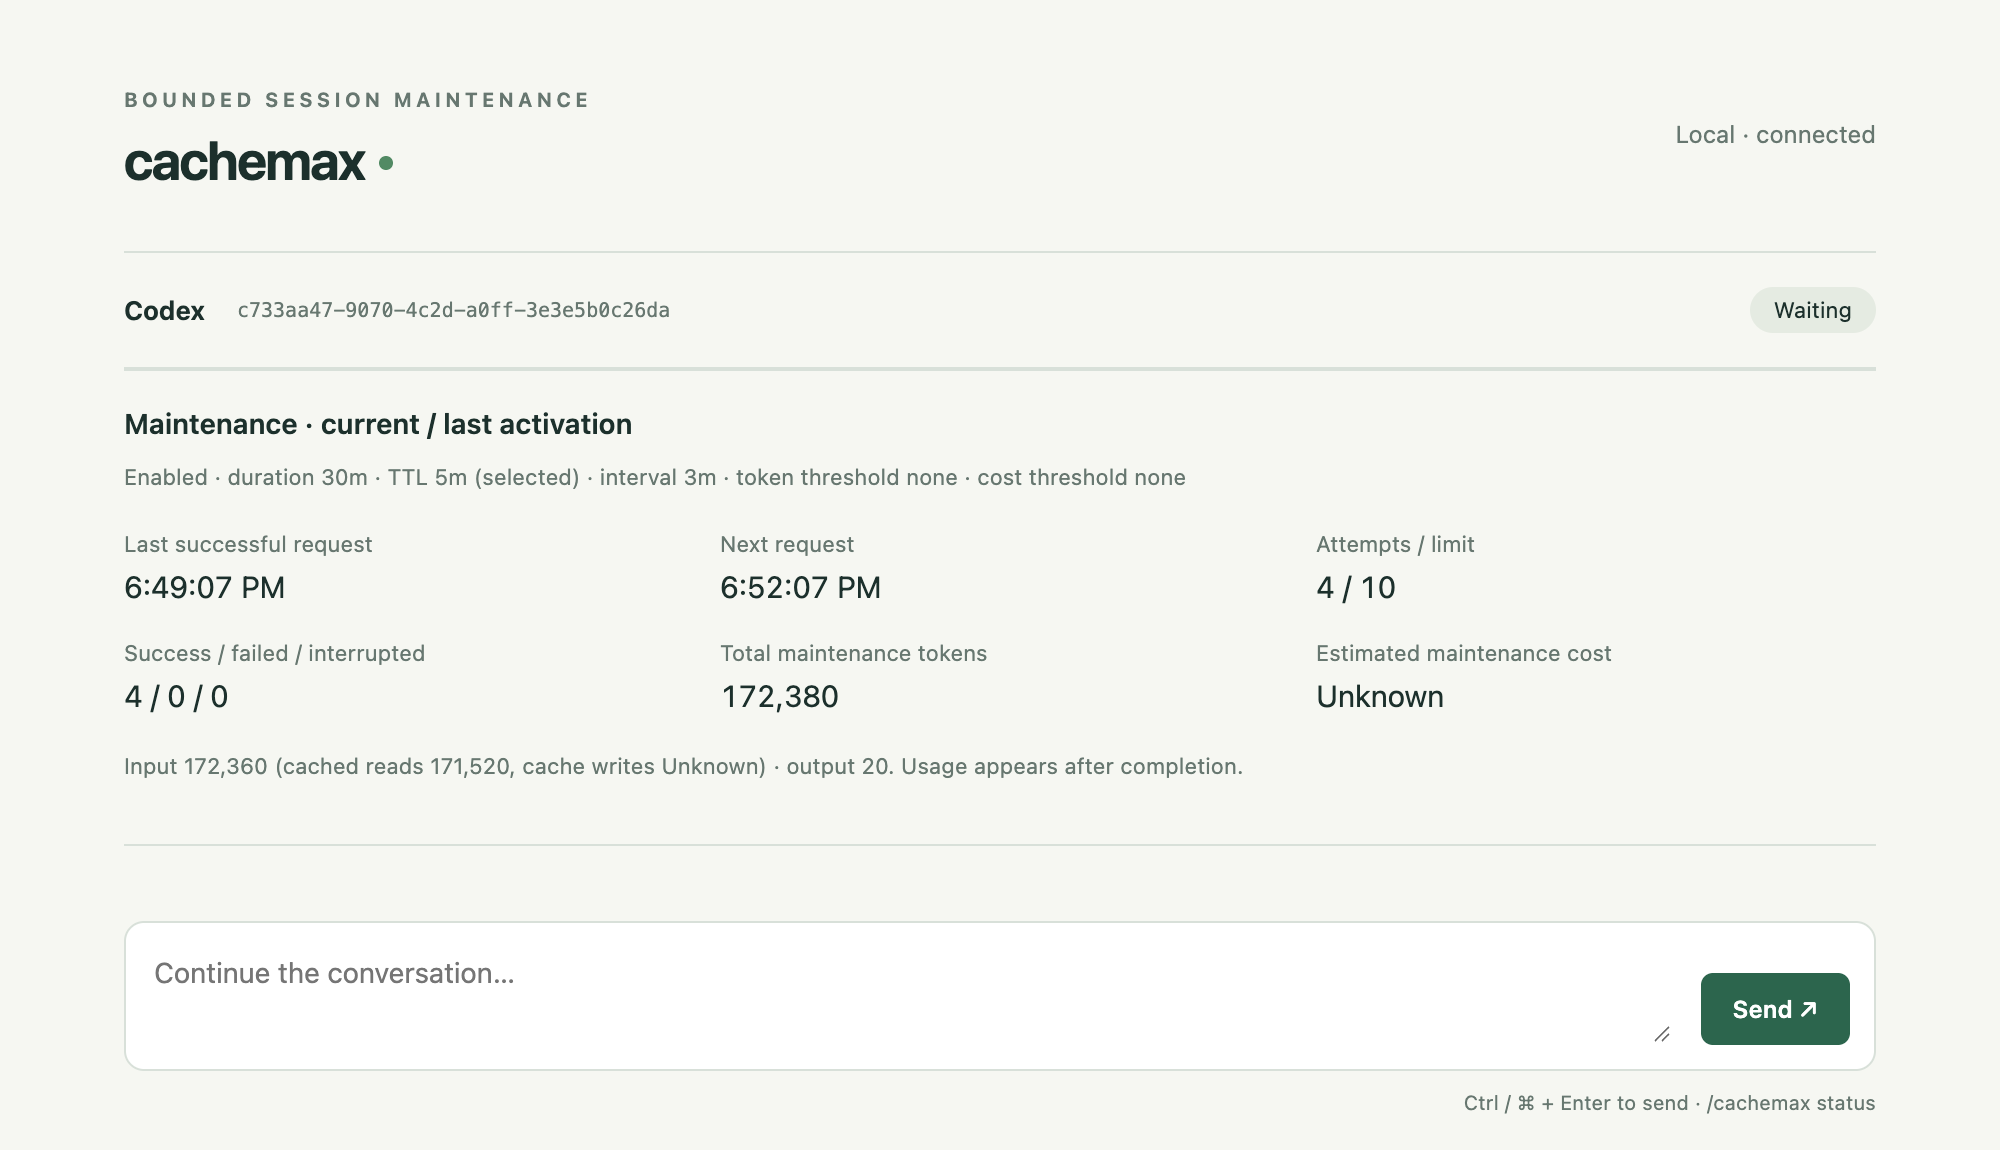
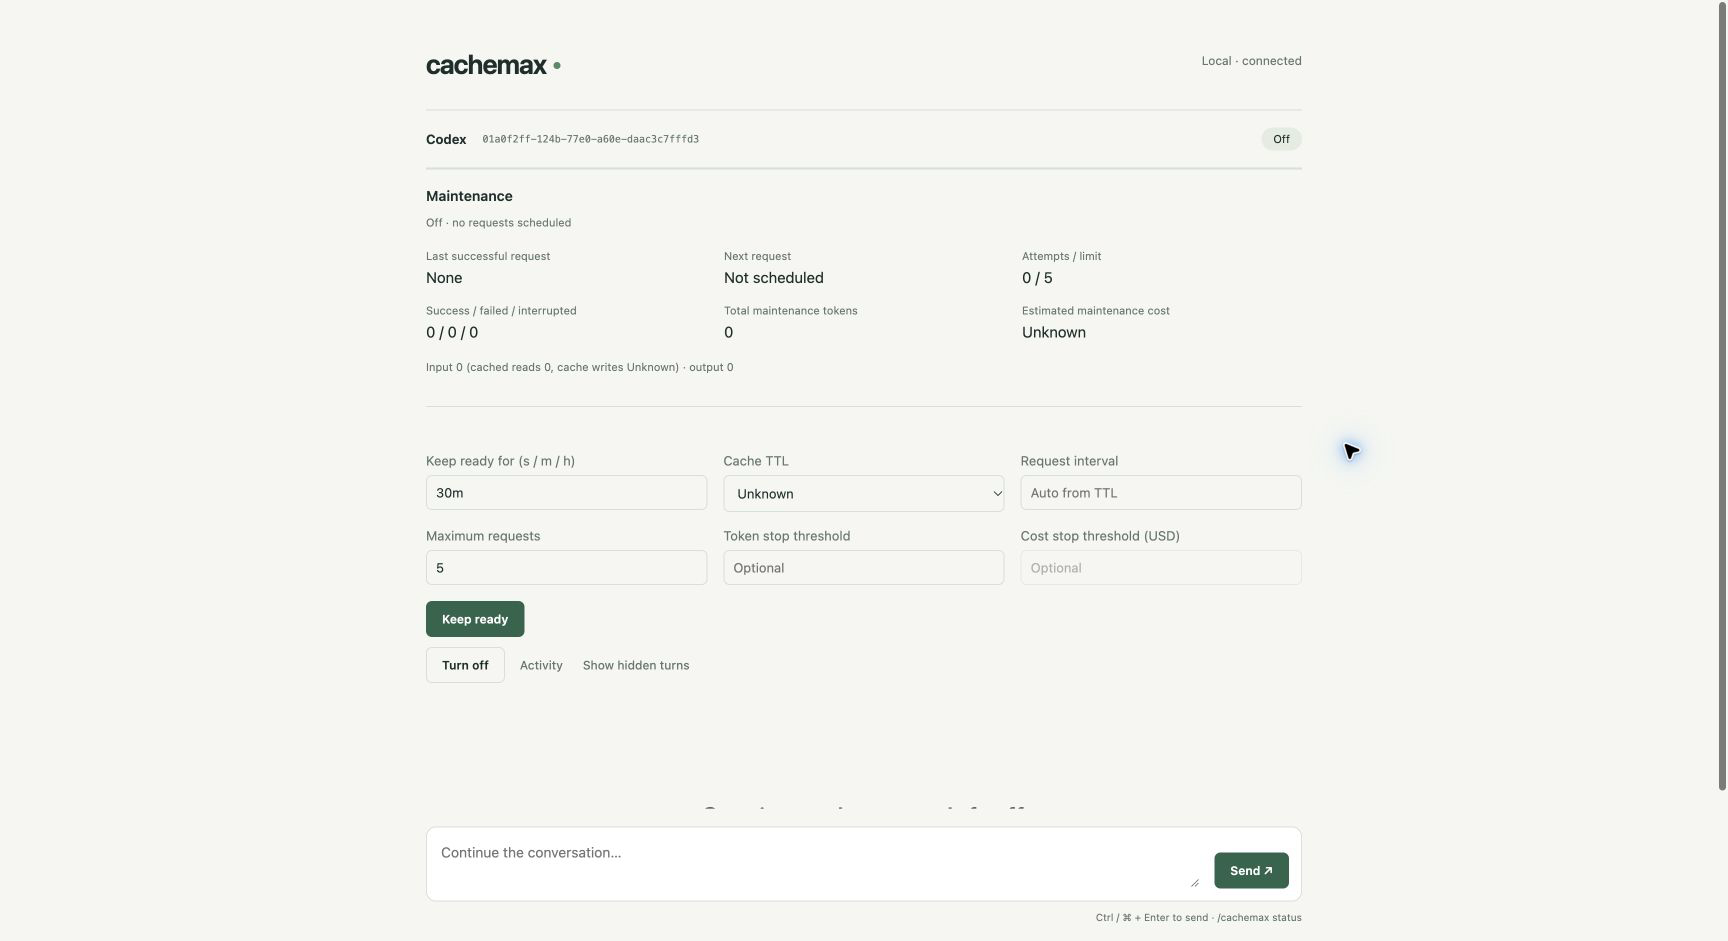
docs: simplify readmes, charts, and managed page copy

diff --git a/plugins/cachemax/skills/cachemax/ui/style.css b/plugins/cachemax/skills/cachemax/ui/style.css
@@ -1,2 +1,2 @@
-:root{color-scheme:light;--ink:#1c302c;--muted:#677770;--line:#d8e0d9;--green:#2c654d;--paper:#f6f7f2;font-family:ui-sans-serif,system-ui,sans-serif;color:var(--ink);background:var(--paper)}*{box-sizing:border-box}body{margin:0}header,main,footer{max-width:940px;margin:auto;padding:24px 32px}header{display:flex;align-items:center;justify-content:space-between;padding-top:38px;padding-bottom:30px}.eyebrow{font-size:10px;letter-spacing:2px;color:var(--muted);font-weight:650}h1{font-size:27px;letter-spacing:-1px;margin:7px 0 0;font-weight:650}.dot{display:inline-block;width:7px;height:7px;border-radius:50%;background:#528a64;margin:0 0 5px 7px}#connection{font-size:12px;color:var(--muted)}main{padding-top:0;padding-bottom:180px}.session{border-block:1px solid var(--line);padding:17px 0;display:flex;gap:16px;align-items:center;font-size:13px}.session code{font-size:10px;color:var(--muted);overflow:hidden;text-overflow:ellipsis}#host{text-transform:capitalize;font-weight:650}#phase{margin-left:auto;background:#e5ebe2;padding:5px 12px;border-radius:20px;font-size:11px;white-space:nowrap}.controls{display:flex;align-items:center;gap:10px;padding-top:24px;flex-wrap:wrap}#activate{display:flex;align-items:center;gap:10px}label{font-size:13px;color:var(--muted)}select,button,textarea{font:inherit}select{background:transparent;border:1px solid var(--line);border-radius:6px;padding:9px;font-size:13px;color:var(--ink)}button{background:var(--green);color:white;border:1px solid var(--green);padding:10px 15px;border-radius:6px;font-size:12px;font-weight:600;cursor:pointer}button:hover{filter:brightness(.92)}button:disabled{opacity:.5;cursor:wait}.secondary{background:transparent;color:var(--ink);border-color:var(--line)}.text-button{border:0;background:none;color:var(--muted);padding-inline:5px;font-weight:450}.note{font-size:11px;line-height:1.6;color:var(--muted);max-width:650px;margin:14px 0 24px}#notice{font-size:12px;color:var(--green)}#error{background:#fceee7;color:#853e25;padding:14px;border-radius:6px;font-size:13px}#empty{padding:80px 0;text-align:center}#empty h2{font-size:30px;font-weight:450;letter-spacing:-1px}#empty p{color:var(--muted);font-size:14px;line-height:1.8}.message{padding:25px 0;border-bottom:1px solid var(--line)}.role{font-size:10px;text-transform:uppercase;letter-spacing:1.4px;font-weight:650;color:var(--muted)}.message pre{white-space:pre-wrap;overflow-wrap:anywhere;font:14px/1.85 ui-sans-serif,system-ui,sans-serif;margin:12px 0 0}.message.user pre{font-weight:550}footer{position:fixed;bottom:0;left:0;right:0;background:var(--paper);padding-top:18px;padding-bottom:18px}#composer{display:flex;align-items:flex-end;gap:14px;background:white;border:1px solid var(--line);border-radius:10px;padding:12px}textarea{flex:1;resize:vertical;min-height:48px;max-height:200px;border:0;outline:none;background:transparent;font-size:14px;line-height:1.6;color:var(--ink)}textarea:focus-visible{outline:2px solid #93b69d;outline-offset:3px;border-radius:3px}.footer-note{display:flex;justify-content:space-between;margin-top:10px;color:var(--muted);font-size:10px}dialog{max-width:min(850px,92vw);max-height:80vh;border:1px solid var(--line);border-radius:12px;padding:24px;color:var(--ink);background:var(--paper)}dialog::backdrop{background:#10201977}.dialog-heading{display:flex;justify-content:space-between;gap:40px;align-items:center}.dialog-heading h2{font-size:20px;font-weight:550}dialog pre{font-size:11px;line-height:1.6;white-space:pre-wrap;overflow-wrap:anywhere}.sr-only{position:absolute;width:1px;height:1px;overflow:hidden;clip-path:inset(50%)}:focus-visible{outline:2px solid #619572;outline-offset:3px}@media(max-width:600px){header,main,footer{padding-inline:18px}.session{gap:8px}.session code{max-width:145px}#activate{flex-wrap:wrap}.controls{gap:8px}.footer-note{font-size:9px}#empty{padding-top:35px}#empty h2{font-size:24px}}@media(prefers-reduced-motion:no-preference){button{transition:filter .12s}}
-#activate{display:block;width:100%}.settings-grid{display:grid;grid-template-columns:repeat(3,minmax(0,1fr));gap:16px}.settings-grid label{display:flex;flex-direction:column;gap:7px}.settings-grid label[hidden]{display:none}input{font:inherit;min-width:0;width:100%;background:transparent;border:1px solid var(--line);border-radius:6px;padding:9px;font-size:13px;color:var(--ink)}input:disabled{opacity:.55}#activate .note{margin:10px 0}#cost-help:empty{display:none}.monitor{border-block:1px solid var(--line);padding:18px 0;margin-bottom:22px}.monitor h2{font-size:14px;font-weight:600;margin:0}.metrics{display:grid;grid-template-columns:repeat(3,minmax(0,1fr));gap:18px;margin:18px 0}.metrics dt{font-size:11px;color:var(--muted)}.metrics dd{margin:6px 0 0;font-size:15px;font-variant-numeric:tabular-nums}.monitor .note{margin:10px 0}#stop-reason{font-size:12px;color:var(--green)}@media(max-width:600px){.settings-grid,.metrics{grid-template-columns:repeat(2,minmax(0,1fr));gap:14px}.metrics dd{font-size:13px}}
+:root{color-scheme:light;--ink:#1c302c;--muted:#677770;--line:#d8e0d9;--green:#2c654d;--paper:#f6f7f2;font-family:ui-sans-serif,system-ui,sans-serif;color:var(--ink);background:var(--paper)}*{box-sizing:border-box}body{margin:0}header,main,footer{max-width:940px;margin:auto;padding:24px 32px}header{display:flex;align-items:center;justify-content:space-between;padding-top:38px;padding-bottom:30px}h1{font-size:27px;letter-spacing:-1px;margin:7px 0 0;font-weight:650}.dot{display:inline-block;width:7px;height:7px;border-radius:50%;background:#528a64;margin:0 0 5px 7px}#connection{font-size:12px;color:var(--muted)}main{padding-top:0;padding-bottom:180px}.session{border-block:1px solid var(--line);padding:17px 0;display:flex;gap:16px;align-items:center;font-size:13px}.session code{font-size:10px;color:var(--muted);overflow:hidden;text-overflow:ellipsis}#host{text-transform:capitalize;font-weight:650}#phase{margin-left:auto;background:#e5ebe2;padding:5px 12px;border-radius:20px;font-size:11px;white-space:nowrap}.controls{display:flex;align-items:center;gap:10px;padding-top:24px;flex-wrap:wrap}#activate{display:flex;align-items:center;gap:10px}label{font-size:13px;color:var(--muted)}select,button,textarea{font:inherit}select{background:transparent;border:1px solid var(--line);border-radius:6px;padding:9px;font-size:13px;color:var(--ink)}button{background:var(--green);color:white;border:1px solid var(--green);padding:10px 15px;border-radius:6px;font-size:12px;font-weight:600;cursor:pointer}button:hover{filter:brightness(.92)}button:disabled{opacity:.5;cursor:wait}.secondary{background:transparent;color:var(--ink);border-color:var(--line)}.text-button{border:0;background:none;color:var(--muted);padding-inline:5px;font-weight:450}.note{font-size:11px;line-height:1.6;color:var(--muted);max-width:650px;margin:14px 0 24px}#notice{font-size:12px;color:var(--green)}#error{background:#fceee7;color:#853e25;padding:14px;border-radius:6px;font-size:13px}#empty{padding:80px 0;text-align:center}#empty h2{font-size:30px;font-weight:450;letter-spacing:-1px}.message{padding:25px 0;border-bottom:1px solid var(--line)}.role{font-size:10px;text-transform:uppercase;letter-spacing:1.4px;font-weight:650;color:var(--muted)}.message pre{white-space:pre-wrap;overflow-wrap:anywhere;font:14px/1.85 ui-sans-serif,system-ui,sans-serif;margin:12px 0 0}.message.user pre{font-weight:550}footer{position:fixed;bottom:0;left:0;right:0;background:var(--paper);padding-top:18px;padding-bottom:18px}#composer{display:flex;align-items:flex-end;gap:14px;background:white;border:1px solid var(--line);border-radius:10px;padding:12px}textarea{flex:1;resize:vertical;min-height:48px;max-height:200px;border:0;outline:none;background:transparent;font-size:14px;line-height:1.6;color:var(--ink)}textarea:focus-visible{outline:2px solid #93b69d;outline-offset:3px;border-radius:3px}.footer-note{display:flex;justify-content:space-between;margin-top:10px;color:var(--muted);font-size:10px}dialog{max-width:min(850px,92vw);max-height:80vh;border:1px solid var(--line);border-radius:12px;padding:24px;color:var(--ink);background:var(--paper)}dialog::backdrop{background:#10201977}.dialog-heading{display:flex;justify-content:space-between;gap:40px;align-items:center}.dialog-heading h2{font-size:20px;font-weight:550}dialog pre{font-size:11px;line-height:1.6;white-space:pre-wrap;overflow-wrap:anywhere}.sr-only{position:absolute;width:1px;height:1px;overflow:hidden;clip-path:inset(50%)}:focus-visible{outline:2px solid #619572;outline-offset:3px}@media(max-width:600px){header,main,footer{padding-inline:18px}.session{gap:8px}.session code{max-width:145px}#activate{flex-wrap:wrap}.controls{gap:8px}.footer-note{font-size:9px}#empty{padding-top:35px}#empty h2{font-size:24px}}@media(prefers-reduced-motion:no-preference){button{transition:filter .12s}}
+#activate{display:block;width:100%}.settings-grid{display:grid;grid-template-columns:repeat(3,minmax(0,1fr));gap:16px}.settings-grid label{display:flex;flex-direction:column;gap:7px}.settings-grid label[hidden]{display:none}input{font:inherit;min-width:0;width:100%;background:transparent;border:1px solid var(--line);border-radius:6px;padding:9px;font-size:13px;color:var(--ink)}input:disabled{opacity:.55}#activate button{margin-top:16px}.monitor{border-block:1px solid var(--line);padding:18px 0;margin-bottom:22px}.monitor h2{font-size:14px;font-weight:600;margin:0}.metrics{display:grid;grid-template-columns:repeat(3,minmax(0,1fr));gap:18px;margin:18px 0}.metrics dt{font-size:11px;color:var(--muted)}.metrics dd{margin:6px 0 0;font-size:15px;font-variant-numeric:tabular-nums}.monitor .note{margin:10px 0}#stop-reason{font-size:12px;color:var(--green)}@media(max-width:600px){.settings-grid,.metrics{grid-template-columns:repeat(2,minmax(0,1fr));gap:14px}.metrics dd{font-size:13px}}

diff --git a/plugins/cachemax/skills/cachemax/ui/index.html b/plugins/cachemax/skills/cachemax/ui/index.html
@@ -2,11 +2,11 @@
 <html lang="en">
 <head><meta charset="utf-8"><meta name="viewport" content="width=device-width,initial-scale=1"><title>cachemax</title><link rel="stylesheet" href="/style.css"></head>
 <body>
-<header><div><span class="eyebrow">BOUNDED SESSION MAINTENANCE</span><h1>cachemax<span class="dot" aria-hidden="true"></span></h1></div><span id="connection">Connecting…</span></header>
+<header><div><h1>cachemax<span class="dot" aria-hidden="true"></span></h1></div><span id="connection">Connecting…</span></header>
 <main>
   <section class="session" aria-label="Session details"><span id="host">Managed session</span><code id="session"></code><span id="phase">Off</span></section>
   <section class="monitor" aria-labelledby="monitor-title">
-    <h2 id="monitor-title">Maintenance · current / last activation</h2>
+    <h2 id="monitor-title">Maintenance</h2>
     <p id="active-settings" class="note">Off · no requests scheduled</p>
     <dl class="metrics">
       <div><dt>Last successful request</dt><dd id="last-success">None</dd></div>
@@ -21,25 +21,20 @@
   <section class="controls" aria-label="Keepalive controls">
     <form id="activate">
       <div class="settings-grid">
-        <label for="duration">Keep ready for<input id="duration" value="30m" required pattern="[0-9]+([.][0-9]+)?[smh]" aria-describedby="settings-help"></label>
-        <label for="ttl">Cache TTL<select id="ttl" aria-describedby="ttl-help"><option value="">Unknown</option><option value="5m">5 minutes</option><option value="1h">1 hour</option><option value="custom">Custom</option></select></label>
+        <label for="duration">Keep ready for (s / m / h)<input id="duration" value="30m" required pattern="[0-9]+([.][0-9]+)?[smh]"></label>
+        <label for="ttl">Cache TTL<select id="ttl"><option value="">Unknown</option><option value="5m">5 minutes</option><option value="1h">1 hour</option><option value="custom">Custom</option></select></label>
         <label id="custom-ttl-label" for="custom-ttl" hidden>Custom TTL<input id="custom-ttl" placeholder="e.g. 20m" pattern="[0-9]+([.][0-9]+)?[smh]"></label>
         <label for="interval">Request interval<input id="interval" placeholder="Auto from TTL" pattern="[0-9]+([.][0-9]+)?[smh]"></label>
         <label for="max-ticks">Maximum requests<input id="max-ticks" type="number" min="1" max="120" step="1" value="5" required></label>
-        <label for="max-tokens">Token stop threshold<input id="max-tokens" type="number" min="1" step="1" placeholder="Optional" aria-describedby="budget-help"></label>
-        <label for="max-cost">Cost stop threshold (USD)<input id="max-cost" type="number" min="0.000001" step="any" placeholder="Optional" aria-describedby="budget-help cost-help"></label>
+        <label for="max-tokens">Token stop threshold<input id="max-tokens" type="number" min="1" step="1" placeholder="Optional"></label>
+        <label for="max-cost">Cost stop threshold (USD)<input id="max-cost" type="number" min="0.000001" step="any" placeholder="Optional"></label>
       </div>
-      <p id="settings-help" class="note">Durations use s, m or h, up to 24h. The first request waits for the interval; each completed turn resets that wait.</p>
-      <p id="ttl-help" class="note">Your selected TTL guides scheduling. Provider retention may differ. Auto interval: unknown / 5m → 3m; 1h → 50m; custom → 5/6 of TTL.</p>
-      <p id="budget-help" class="note">Thresholds count maintenance only, including cached input. Checked after each response; one request can exceed the threshold. Missing budget usage pauses maintenance.</p>
-      <p id="cost-help" class="note"></p>
       <button type="submit">Keep ready</button>
     </form>
     <button id="off" class="secondary">Turn off</button><button id="logs" class="text-button">Activity</button><button id="hidden" class="text-button">Show hidden turns</button>
   </section>
-  <p class="note">Short requests reuse this conversation and attempt to reuse its cache. Maintenance uses your signed-in account and can increase usage. Its messages are hidden here and retained in the original transcript.</p>
   <p id="notice" role="status"></p><p id="error" role="alert" hidden></p>
-  <section id="conversation" aria-label="Conversation"><div id="empty"><h2>Continue where you left off.</h2><p>Your real conversation stays here.<br>Maintenance runs quietly in the background.</p></div></section>
+  <section id="conversation" aria-label="Conversation"><div id="empty"><h2>Continue where you left off.</h2></div></section>
 </main>
 <footer><form id="composer"><label for="input" class="sr-only">Message</label><textarea id="input" rows="2" placeholder="Continue the conversation…" required maxlength="100000"></textarea><button id="send" type="submit">Send <span aria-hidden="true">↗</span></button></form><div class="footer-note"><span id="working"></span><span>Ctrl / ⌘ + Enter to send · /cachemax status</span></div></footer>
 <dialog id="diagnostics"><div class="dialog-heading"><h2 id="dialog-title">Activity</h2><button id="dismiss" class="secondary">Close</button></div><pre id="details"></pre></dialog>

diff --git a/README.md b/README.md
@@ -8,17 +8,10 @@
 ![Version](https://img.shields.io/badge/version-0.2.0-orange)
 
 Keep your **Claude Code, Codex, or Grok Build conversation** warm while you step away.
-cachemax periodically sends `Only ".". No tools.` to the same session, hides those turns
-in a local browser page, and stops at your limits. Uses your existing CLI login;
-no API key, npm dependencies, or build step.
-
-> [!WARNING]
-> **Maintenance can increase total usage and cost.** Even a `.` reply reads the conversation.
-> Cache retention and savings are not guaranteed. Your TTL choice sets the local schedule only.
+cachemax sends short requests to the same session and hides them in a local browser page.
+Uses your existing CLI login.
 
 ## Quick start
-
-Requires **Node.js 22.18+**, macOS, and a signed-in host CLI. Linux and Windows are untested.
 
 ```sh
 npx skills add helloimdevman/cachemax -g -a claude-code codex grok
@@ -29,7 +22,7 @@ npx skills add helloimdevman/cachemax -g -a claude-code codex grok
 3. **Exit the CLI within 10 minutes.** cachemax takes over and opens the conversation in your
    browser. Continue there; your messages take priority over maintenance.
 
-To cancel before exiting, run the same skill with `off`. The skill includes the runtime.
+To cancel before exiting, run the same skill with `off`.
 
 <details>
 <summary>Preview the managed page</summary>
@@ -40,47 +33,26 @@ To cancel before exiting, run the same skill with `off`. The skill includes the 
 
 ## Measured cache effect and usage
 
-The chart shows **the share of the next user turn's input read from cache**, not the
-probability of a cache hit. Subscription-account runs on 2026-09-29 used a 3-minute
-interval and longer windows/request caps for each condition; **the default stops after 5 requests**.
+![Cache read ranges after 5 minutes to 2 hours away, with and without cachemax, alongside added usage.](docs/assets/cache-retention.svg)
 
-![Cache read ranges after 5 minutes to 2 hours away, with and without cachemax, alongside added usage. Claude's paused 2-hour runs are marked separately.](docs/assets/cache-retention.svg)
-
-- **Claude Code and Codex:** controls already retained most of the cache through 1 hour.
-  At 2 hours, Codex read 0–15.2% without maintenance and 99.5% with it.
-- **Grok Build:** without maintenance, 7 of 8 return turns from 15 minutes onward read
-  only 0–21.6% from cache; with maintenance, they read 99.7–99.9%.
-- **Usage rose in every completed pair.** The left column includes maintenance + return
-  after warm-up. Claude/Grok show CLI dollar estimates; Codex shows input tokens, not dollars or quota.
-
-† Both Claude 2-hour runs paused on an API retry around minute 98, after 31 completed
-maintenance requests. Their return values are shown for reference and excluded from
-the usage ranges. Two pairs per condition on shared accounts do not establish a provider TTL.
-[Method, all results, and source data](docs/idle-sweep-2026-09-29.md).
+- **Codex, 2 hours:** 0–15.2% without cachemax; 99.5% with cachemax.
+- **Grok Build, 15 minutes onward:** 0–21.6% in 7 of 8 turns without cachemax; 99.7–99.9% with cachemax.
 
 ## How it behaves
 
-- **Your turn goes first.** A running maintenance request is cancelled before your message is sent.
-- **Waits from the last reply**, including replies before activation or in the native CLI.
-  Each completed turn resets the wait; if already overdue at activation, the first request starts immediately.
-- **Stops at the first limit or error.** Fixed end time, request cap, and optional token/$ budgets.
-  Unexpected replies also pause it. It never restarts automatically or replays missed requests after sleep.
-- **Hidden in the managed page.** Maintenance stays in the host transcript and may appear in native clients.
+- Your message takes priority over maintenance.
+- Each completed reply resets the request interval.
+- Maintenance stops at the duration, request, token, or cost limit.
+- Maintenance turns are hidden in the page and retained in the host transcript.
 
 ## Limits and defaults
 
-| Setting | Default | Limit / behavior |
+| Setting | Default | Range / scheduling |
 | --- | --- | --- |
 | Requests | 5 | 1–120 |
-| Duration | Skill: fits request count; page: 30m | Up to 24h; end time fixed at activation |
-| Interval | Unknown/5m TTL → 3m; 1h → 50m | Custom TTL → 5/6 of TTL; interval must be shorter than TTL |
-| Token / $ budget | Off | Maintenance only; checked after responses, so one request can overshoot |
-
-Dollar budgets work on Claude and Grok. Missing budget usage pauses maintenance.
-It uses the session's model and blocks maintenance tools. Native `/loop` and
-`--require-native-loop` are unsupported. For interactive approvals, close the runner and use the native CLI.
-Measurements used Claude Code **2.1.284**, Codex **0.158.0**, and Grok Build **1.0.41**;
-see the [compatibility matrix](docs/compatibility-matrix.md) for guard and transport details.
+| Duration | Skill: fits request count; page: 30m | Up to 24h |
+| Interval | Unknown/5m TTL → 3m; 1h → 50m | Custom TTL → 5/6 of TTL |
+| Maintenance token / cost limit | Off | Cost limit: Claude and Grok |
 
 <details>
 <summary>Plugin installation and terminal commands</summary>
@@ -122,29 +94,4 @@ installs, remove the host plugin and run `npm uninstall --global cachemax` as ap
 
 </details>
 
-## Privacy
-
-- Local only: binds to `127.0.0.1` with a random access token. Treat the URL as session access.
-- No telemetry; credentials are never read or copied. The host owns the conversation text.
-- Metadata: `~/.cachemax` (or `CACHEMAX_HOME`), mode `0600`. [Privacy details](docs/privacy.md).
-
-<details>
-<summary>Development and measurement reports</summary>
-
-```sh
-npm test                                    # offline; no model usage
-npm run check
-node scripts/render-readme-charts.mjs        # regenerate both charts from saved data
-node scripts/render-readme-charts.mjs --check
-```
-
-Browser check: `node tests/browser-reconnect.mjs` (Ego Lite + local fake host).
-Live checks: `npm run test:live -- --confirm-usage` (3 real model turns per host).
-
-Reports: [Validation](docs/validation-report.md) · [Cache analysis](docs/cache-analysis.md) ·
-[Three-host follow-up](docs/reproducibility-report.md) · [Remeasurement](docs/remeasurement-2026-09-27.md) ·
-[Idle sweep](docs/idle-sweep-2026-09-29.md) · [Usage reduction](docs/usage-minimization.md).
-
-</details>
-
-[Troubleshooting](docs/troubleshooting.md) · [MIT license](LICENSE)
+[MIT license](LICENSE)
